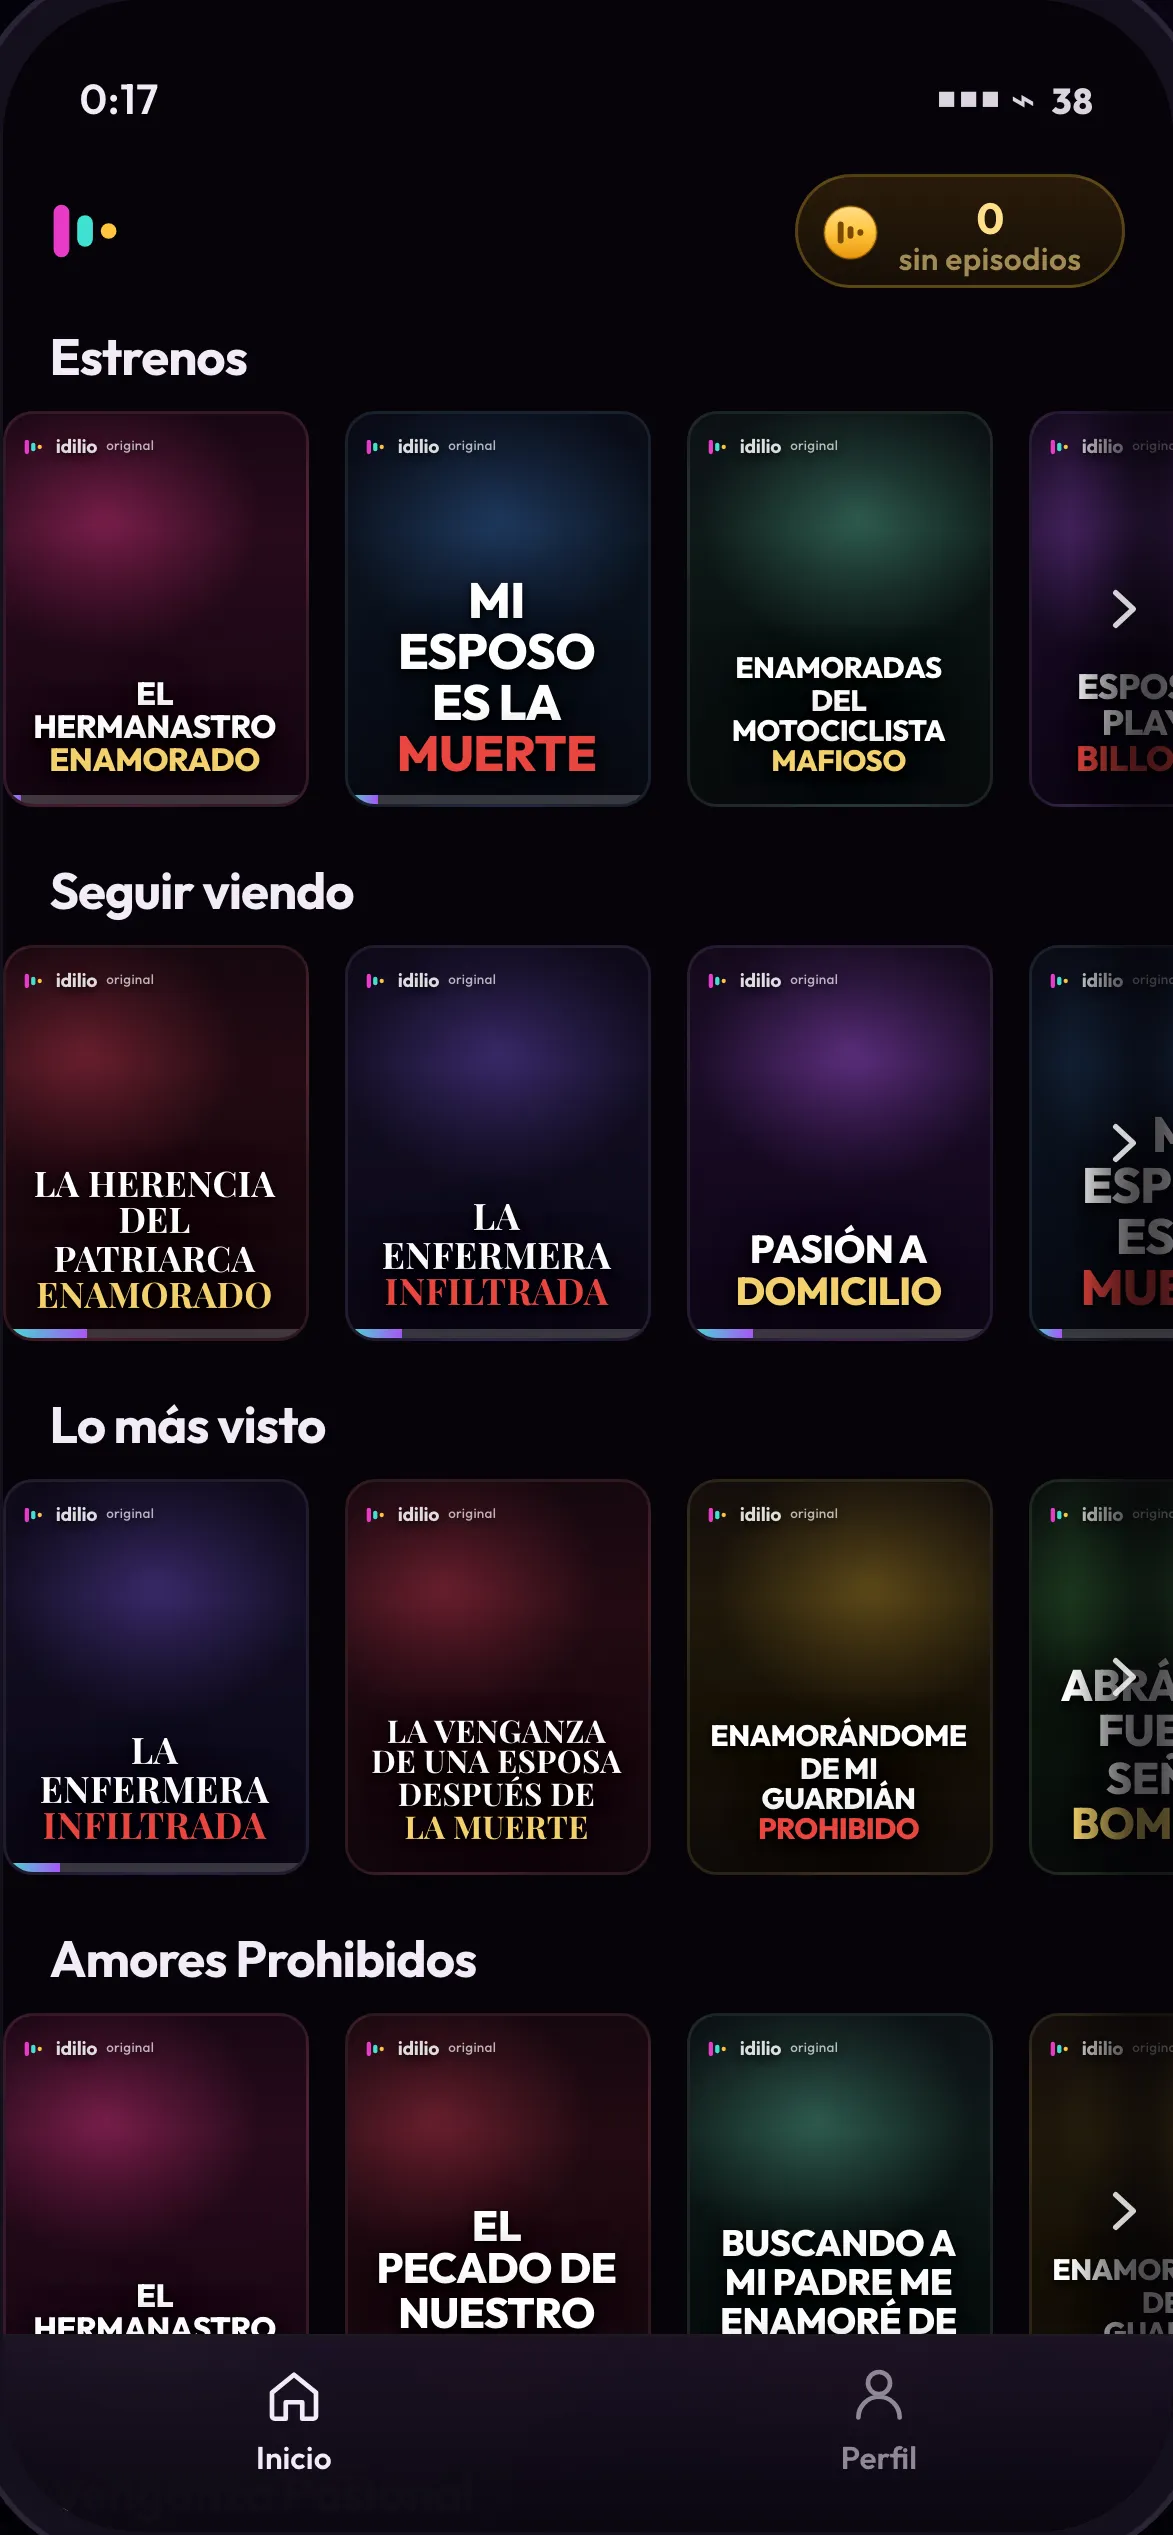
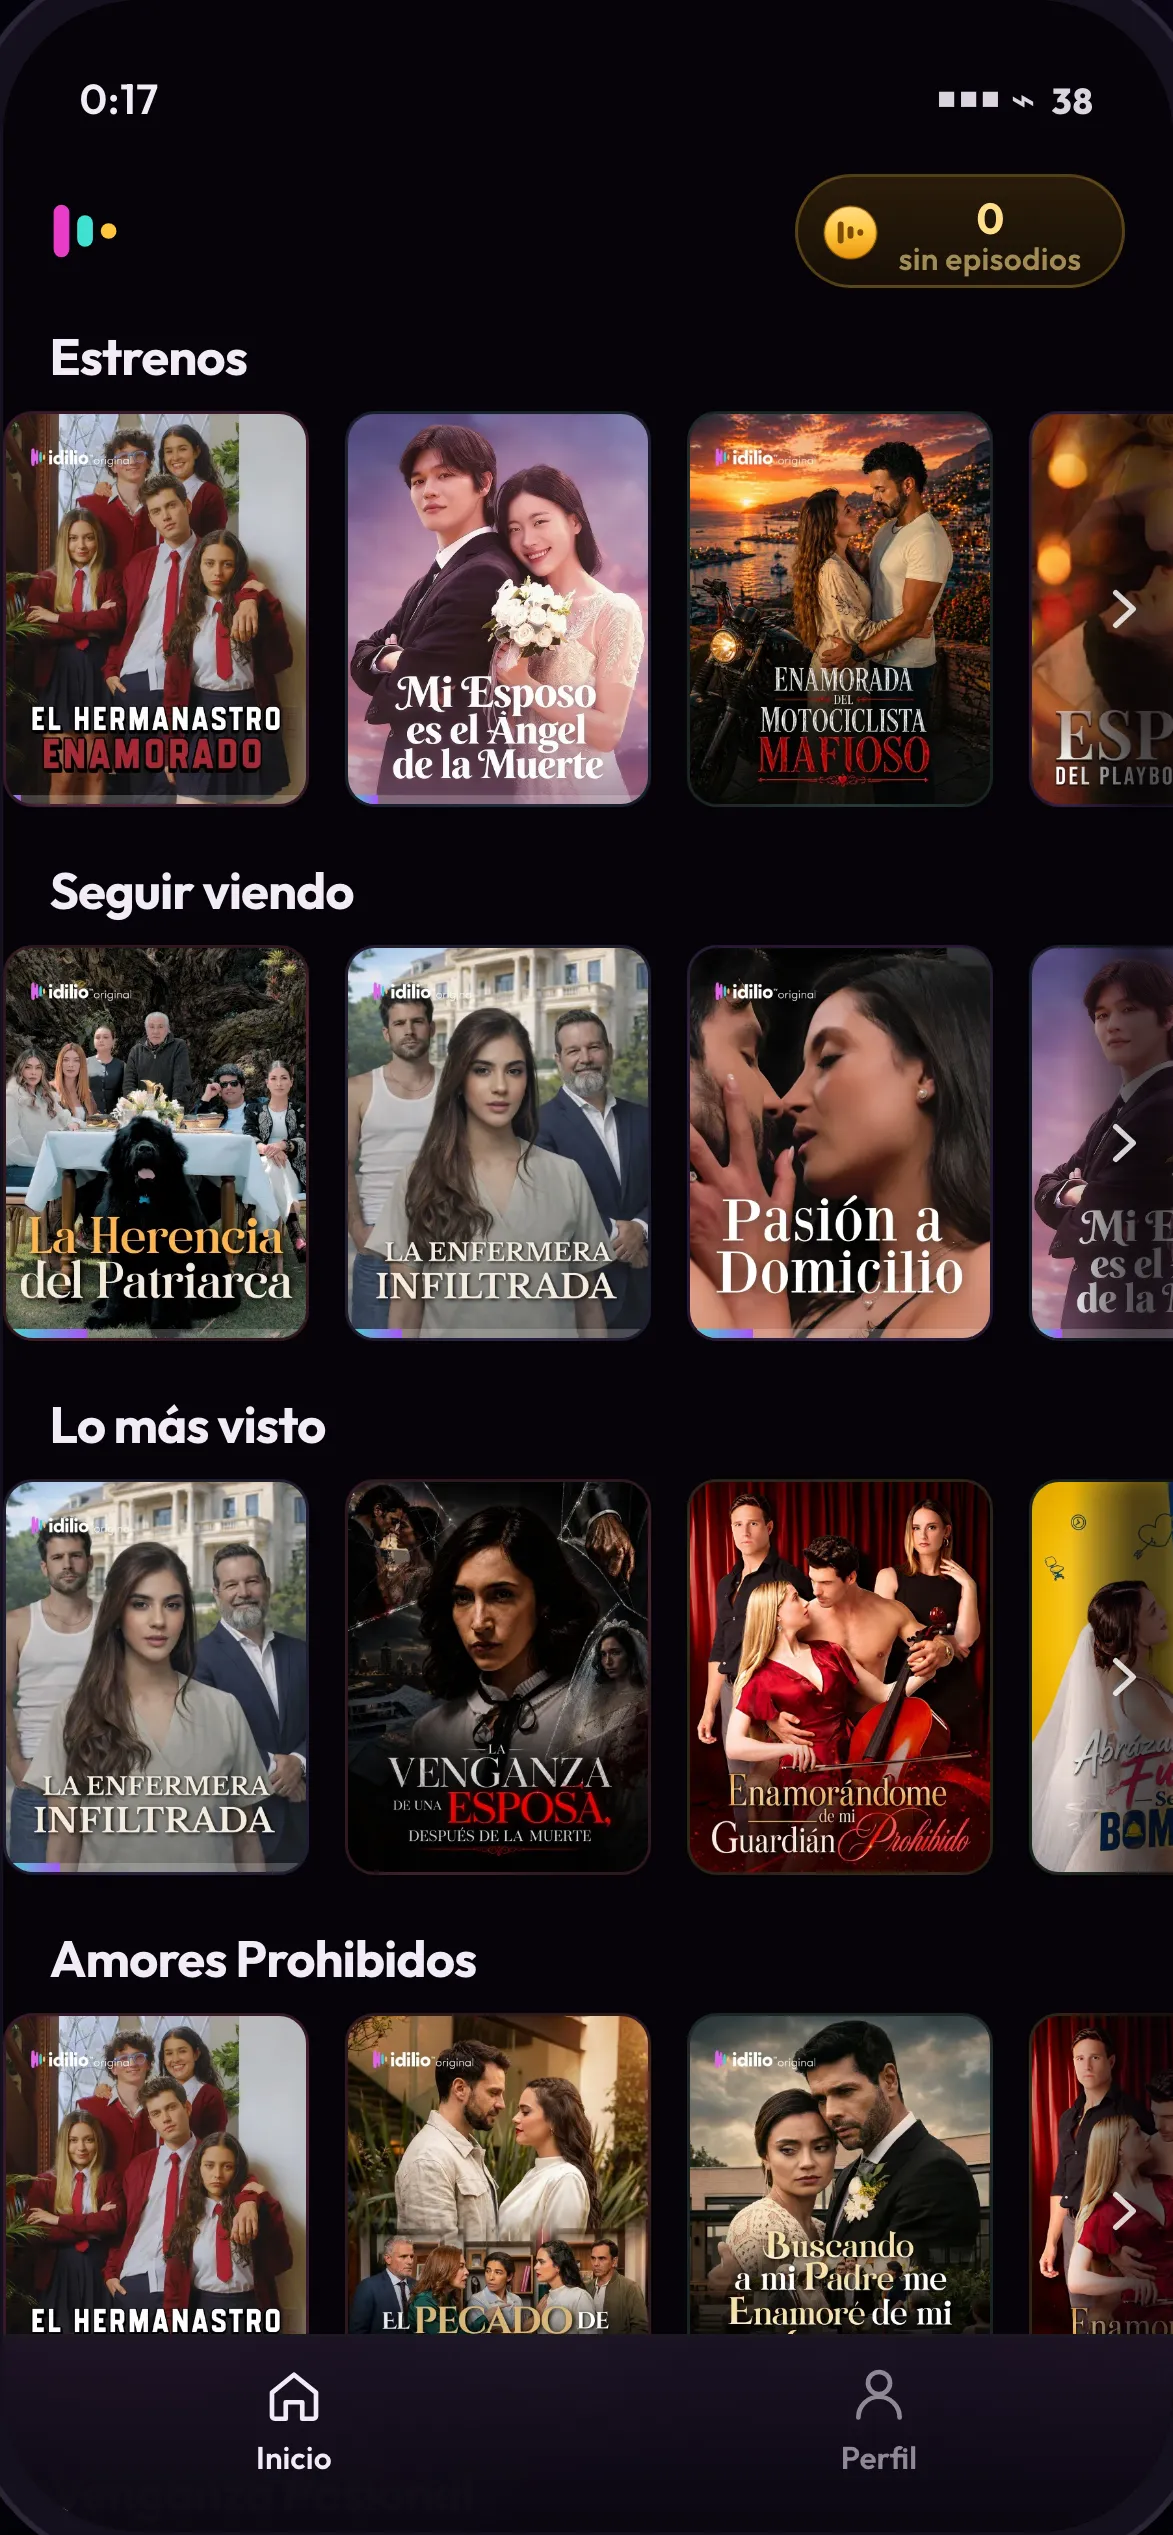
El catálogo se ve con su propio arte
El home dibujaba portadas sintéticas —un degradado por serie y el título
compuesto encima— porque el POC no tenía el arte. El arte existe: cada
ficha pública de idilio.tv publica su póster, y ese póster ya trae el
título y el sello «idilio original» quemados, que es exactamente lo que
la portada compuesta estaba imitando.

`scripts/bajar-posters.mjs` baja los 41 y los re-codifica a 480x600 webp:
1,8 MB en total contra los 80 MB de los originales, con resolución de
sobra para la miniatura a 3x. Quedan versionados, así que el prototipo no
depende de que el CDN responda.

La portada compuesta no se borra: es a lo que cae una serie que todavía
no tiene arte, y una miniatura en negro sería peor. En la ficha el póster
va como primera capa sobre el fotograma sintético, por la misma razón, y
ampliado al 150% para que la ventana del encabezado caiga entre el sello
de arriba y el título de abajo — si no, el título del póster se lee como
un eco del <h1>.

El player se queda con el fotograma sintético a propósito: ahí corre un
episodio, no una portada.

diff --git a/poc/src/components/Home.tsx b/poc/src/components/Home.tsx
@@ -1,8 +1,9 @@
+import { useState } from 'react'
 import { CATALOGO_SERIES, RIELES_GENERO, type SerieCatalogo } from '../lib/catalogo'
 import { EPISODE_COST, episodesLabel } from '../lib/economy'
 import { enCurso, type State } from '../lib/state'
 import { posterStyle } from '../lib/frame'
-import { portada, semilla } from '../lib/portada'
+import { arteDe, portada, semilla } from '../lib/portada'
 import { Coin, Logo } from './Icons'
 
 /**
@@ -12,10 +13,10 @@ import { Coin, Logo } from './Icons'
  * llegar a él como se llega de verdad — eligiendo una serie, viendo un rato y
  * chocando— para que la propuesta se pueda evaluar.
  *
- * Reproduce el chasis del producto real: portadas con el título quemado en el
- * arte y el sello «idilio original», rieles de género con el mismo orden que la
- * app (Estrenos → Seguir viendo → Lo más visto → los géneros → la selección) y
- * la flecha de arrastre asomando en el borde derecho.
+ * Reproduce el chasis del producto real: los pósters de verdad del catálogo
+ * —con su título y su sello quemados en el arte—, rieles de género con el mismo
+ * orden que la app (Estrenos → Seguir viendo → Lo más visto → los géneros → la
+ * selección) y la flecha de arrastre asomando en el borde derecho.
  *
  * Dos cosas se apartan de la app, y SON la propuesta: el chip de saldo lleva su
  * traducción a episodios, y la pestaña «Recompensas» ya no existe — su contenido
@@ -104,11 +105,17 @@ function Riel({
   )
 }
 
-/** Una portada del riel: arte, sello, título quemado y —si la serie está
- *  empezada— la barra de avance pegada al borde inferior. */
+/** Una portada del riel: el póster real de la serie y —si está empezada— la
+ *  barra de avance pegada al borde inferior.
+ *
+ *  Si el arte no carga, se cae a la portada compuesta: el degradado del tono
+ *  con el título y el sello dibujados. No es un adorno defensivo — una serie
+ *  recién estrenada puede no tener póster todavía, y ahí una miniatura en negro
+ *  sería peor que una compuesta. */
 function Poster({
   s, state, onSerie, continuar,
 }: { s: SerieCatalogo; state: State; onSerie: (id: string) => void; continuar?: boolean }) {
+  const [sinArte, setSinArte] = useState(false)
   const va = state.vistos[s.id] ?? 0
   const pct = Math.round((va / s.total) * 100)
   const sem = semilla(s.id)
@@ -122,16 +129,25 @@ function Poster({
         ? `${s.titulo}. Episodio ${va} de ${s.total}`
         : `${s.titulo}. ${s.gratis} episodios gratis de ${s.total}`}
     >
-      <span className="poster-art" style={posterStyle(s.tono, sem)}>
-        <span className="poster-brand" aria-hidden="true"><Logo s={6} /><b>idilio</b><i>original</i></span>
-        <span
-          className="poster-tit" data-serif={p.serif || undefined}
-          style={{ fontSize: p.tam }} aria-hidden="true"
-        >
-          {p.lineas.map((l, i) => (
-            <span key={i} style={p.acento && i === p.lineas.length - 1 ? { color: p.acento } : undefined}>{l}</span>
-          ))}
-        </span>
+      <span className="poster-art" data-arte={!sinArte || undefined} style={posterStyle(s.tono, sem)}>
+        {sinArte ? (
+          <>
+            <span className="poster-brand" aria-hidden="true"><Logo s={6} /><b>idilio</b><i>original</i></span>
+            <span
+              className="poster-tit" data-serif={p.serif || undefined}
+              style={{ fontSize: p.tam }} aria-hidden="true"
+            >
+              {p.lineas.map((l, i) => (
+                <span key={i} style={p.acento && i === p.lineas.length - 1 ? { color: p.acento } : undefined}>{l}</span>
+              ))}
+            </span>
+          </>
+        ) : (
+          <img
+            className="poster-img" src={arteDe(s.id)} alt="" aria-hidden="true"
+            loading="lazy" decoding="async" onError={() => setSinArte(true)}
+          />
+        )}
         {/* La barra sale en cualquier riel donde aparezca una serie empezada,
             no solo en «Seguir viendo»: es la misma portada, y el avance viaja
             con ella. */}

diff --git a/poc/src/components/Serie.tsx b/poc/src/components/Serie.tsx
@@ -2,6 +2,7 @@ import { porId } from '../lib/catalogo'
 import { EPISODE_COST, episodesLabel, toEpisodes } from '../lib/economy'
 import type { State } from '../lib/state'
 import { frameStyle } from '../lib/frame'
+import { arteDe } from '../lib/portada'
 import { Back, Coin, Lock, Pass, Play } from './Icons'
 
 /**
@@ -29,7 +30,24 @@ export function Serie({
 
   return (
     <div className="serie">
-      <div className="serie-art" style={frameStyle(s.tono, s.total)}>
+      {/* El póster real va como primera capa y el fotograma sintético debajo:
+          si el arte no existe todavía, el degradado sigue pintando y la ficha
+          no se queda en negro. Anclado arriba porque el título de la portada
+          vive en la mitad inferior, que es justo la que este recorte se come, y
+          su sello en el borde superior, que la barra de estado ya ocupa. */}
+      <div
+        className="serie-art"
+        style={{
+          ...frameStyle(s.tono, s.total),
+          backgroundImage: `url(${arteDe(s.id)}), ${frameStyle(s.tono, s.total).backgroundImage}`,
+          // Ampliado al 150%: con el recorte justo, la ventana de 296 px se
+          // come o el sello de arriba o el título de abajo, y el título del
+          // póster debajo del <h1> se lee como un eco. Acercando la imagen, la
+          // ventana cae entre los dos y queda la escena sola.
+          backgroundSize: '150%',
+          backgroundPosition: 'center 34%',
+        }}
+      >
         <button className="icon-btn serie-back" onClick={onVolver} aria-label="Volver"><Back /></button>
         <button className="wallet serie-wallet" onClick={onWallet} aria-label={`Saldo: ${state.balance} monedas`}>
           <Coin s={19} />

diff --git a/mobbin-export/index.html b/mobbin-export/index.html
@@ -58,7 +58,7 @@ code{color:var(--c);font-size:11.5px}
 </a>
 <div class="type">Home / Browse</div>
 <h3>Home · el catálogo</h3>
-<p class="note">El chasis del producto real: portadas con el título quemado en el arte y el sello «idilio original», los rieles en el orden de la app (Estrenos, Seguir viendo, Lo más visto y los géneros —«Amores Prohibidos», «Venganza Pasional»— hasta «Nuestra selección para ti») y las 41 series con muro del catálogo, con sus cifras medidas. Dos diferencias, y son la propuesta: el chip de saldo lleva su traducción a episodios, y la pestaña «Recompensas» ya no existe — su contenido se mudó al muro, que es donde pasa el 100% de los usuarios.</p>
+<p class="note">El chasis del producto real, con los pósters de verdad del catálogo y los rieles en el orden de la app (Estrenos, Seguir viendo, Lo más visto y los géneros —«Amores Prohibidos», «Venganza Pasional»— hasta «Nuestra selección para ti») y las 41 series con muro del catálogo, con sus cifras medidas. Dos diferencias, y son la propuesta: el chip de saldo lleva su traducción a episodios, y la pestaña «Recompensas» ya no existe — su contenido se mudó al muro, que es donde pasa el 100% de los usuarios.</p>
 <div class="chips"><span class="chip">Content rails</span><span class="chip">Continue watching</span><span class="chip">Currency balance</span></div>
 <div class="chips"><span class="chip el">Top bar</span><span class="chip el">Wallet chip</span><span class="chip el">Horizontal rail</span><span class="chip el">Poster</span><span class="chip el">Progress bar</span><span class="chip el">Tab bar</span></div>
 </article><article class="card">

diff --git a/poc/src/styles.css b/poc/src/styles.css
@@ -472,6 +472,10 @@ button { font: inherit; color: inherit; border: none; background: none; cursor: 
   content: ''; position: absolute; inset: 0;
   background: linear-gradient(180deg, rgba(6,3,9,.42) 0%, transparent 30%, rgba(6,3,9,.66) 100%);
 }
+/* El póster real no lleva velo: ya viene compuesto, con su propio contraste.
+   El degradado es para que el título dibujado se lea sobre el degradado. */
+.poster-art[data-arte]::after { display: none; }
+.poster-img { position: absolute; inset: 0; width: 100%; height: 100%; object-fit: cover; display: block; }
 .poster-brand {
   position: absolute; left: 6px; top: 6px; z-index: 2;
   display: flex; align-items: center; gap: 3px;

diff --git a/poc/src/lib/portada.ts b/poc/src/lib/portada.ts
@@ -36,6 +36,16 @@ export interface Portada {
   acento: string | null
 }
 
+/**
+ * El póster real de la serie, bajado con `scripts/bajar-posters.mjs`.
+ *
+ * Ya trae el título y el sello «idilio original» quemados en el arte: cuando
+ * hay póster, la portada compuesta de acá abajo no se dibuja. Sigue existiendo
+ * porque una serie nueva puede no tener arte todavía, y una miniatura vacía es
+ * peor que una compuesta.
+ */
+export const arteDe = (id: string) => `${import.meta.env.BASE_URL}posters/${id}.webp`
+
 const cache = new Map<string, Portada>()
 
 /** Semilla estable por serie: los tonos y la tipografía no deben bailar entre renders. */

diff --git a/poc/src/lib/catalogo.ts b/poc/src/lib/catalogo.ts
@@ -6,7 +6,9 @@
  * de las cuales 9 son enteramente gratis y por eso no aparecen acá— está en
  * docs/00-dogfooding/catalogo.json y el script que lo levantó, al lado.
  *
- * Los tonos sí son míos: el POC no usa los pósters reales.
+ * Los tonos son míos: sostienen la portada compuesta que se dibuja cuando una
+ * serie todavía no tiene arte. El resto del tiempo se ve el póster real, bajado
+ * con scripts/bajar-posters.mjs.
  */
 export interface SerieCatalogo {
   id: string

diff --git a/mobbin-export/README.md b/mobbin-export/README.md
@@ -18,7 +18,7 @@ El muro no se puede juzgar en el vacío. Hay que llegar a él como se llega de v
 | 2 | [Ficha de serie · la progresión visible](flows/f0-llegar-al-muro/02-serie.png) | Detail | Episode grid, Progress indicator, Unlock cost |
 | 3 | [Player · el core loop](flows/f0-llegar-al-muro/03-player.png) | Media player | Vertical video, Swipe navigation, Progress indicator |
 
-**Home · el catálogo** — El chasis del producto real: portadas con el título quemado en el arte y el sello «idilio original», los rieles en el orden de la app (Estrenos, Seguir viendo, Lo más visto y los géneros —«Amores Prohibidos», «Venganza Pasional»— hasta «Nuestra selección para ti») y las 41 series con muro del catálogo, con sus cifras medidas. Dos diferencias, y son la propuesta: el chip de saldo lleva su traducción a episodios, y la pestaña «Recompensas» ya no existe — su contenido se mudó al muro, que es donde pasa el 100% de los usuarios.
+**Home · el catálogo** — El chasis del producto real, con los pósters de verdad del catálogo y los rieles en el orden de la app (Estrenos, Seguir viendo, Lo más visto y los géneros —«Amores Prohibidos», «Venganza Pasional»— hasta «Nuestra selección para ti») y las 41 series con muro del catálogo, con sus cifras medidas. Dos diferencias, y son la propuesta: el chip de saldo lleva su traducción a episodios, y la pestaña «Recompensas» ya no existe — su contenido se mudó al muro, que es donde pasa el 100% de los usuarios.
 
 **Ficha de serie · la progresión visible** — Donde hoy hay una grilla de números grises, la grilla dice tres cosas: dónde vas, qué está abierto y qué cuesta terminar. Y si hay un pase disponible, lo dice antes que el precio.
 

diff --git a/docs/04-poc/README.md b/docs/04-poc/README.md
@@ -11,7 +11,7 @@ El brief acota el alcance a *"la pantalla o el momento donde ocurre la mecánica
 
 | Pantalla | Para qué está |
 |---|---|
-| **Home** | Las 41 series reales con muro, con sus cifras medidas, en el chasis de la app: portadas con el título quemado en el arte y los rieles en el orden real (Estrenos, Seguir viendo, Lo más visto y los géneros, de «Amores Prohibidos» a «Nuestra selección para ti»). Dos detalles son la propuesta dicha en la navegación: el saldo lleva su traducción a episodios, y **la pestaña «Recompensas» ya no existe** — su contenido se mudó al muro. |
+| **Home** | Las 41 series reales con muro, con sus cifras medidas y **sus pósters reales**, en el chasis de la app: los rieles en el orden real (Estrenos, Seguir viendo, Lo más visto y los géneros, de «Amores Prohibidos» a «Nuestra selección para ti»). Dos detalles son la propuesta dicha en la navegación: el saldo lleva su traducción a episodios, y **la pestaña «Recompensas» ya no existe** — su contenido se mudó al muro. |
 | **Ficha de serie** | Donde hoy hay 40 números grises, la grilla dice dónde vas, qué está abierto y qué cuesta terminar. |
 | **Player** | Se desliza hacia arriba para avanzar y hacia abajo para retroceder, como en el producto. |
 
